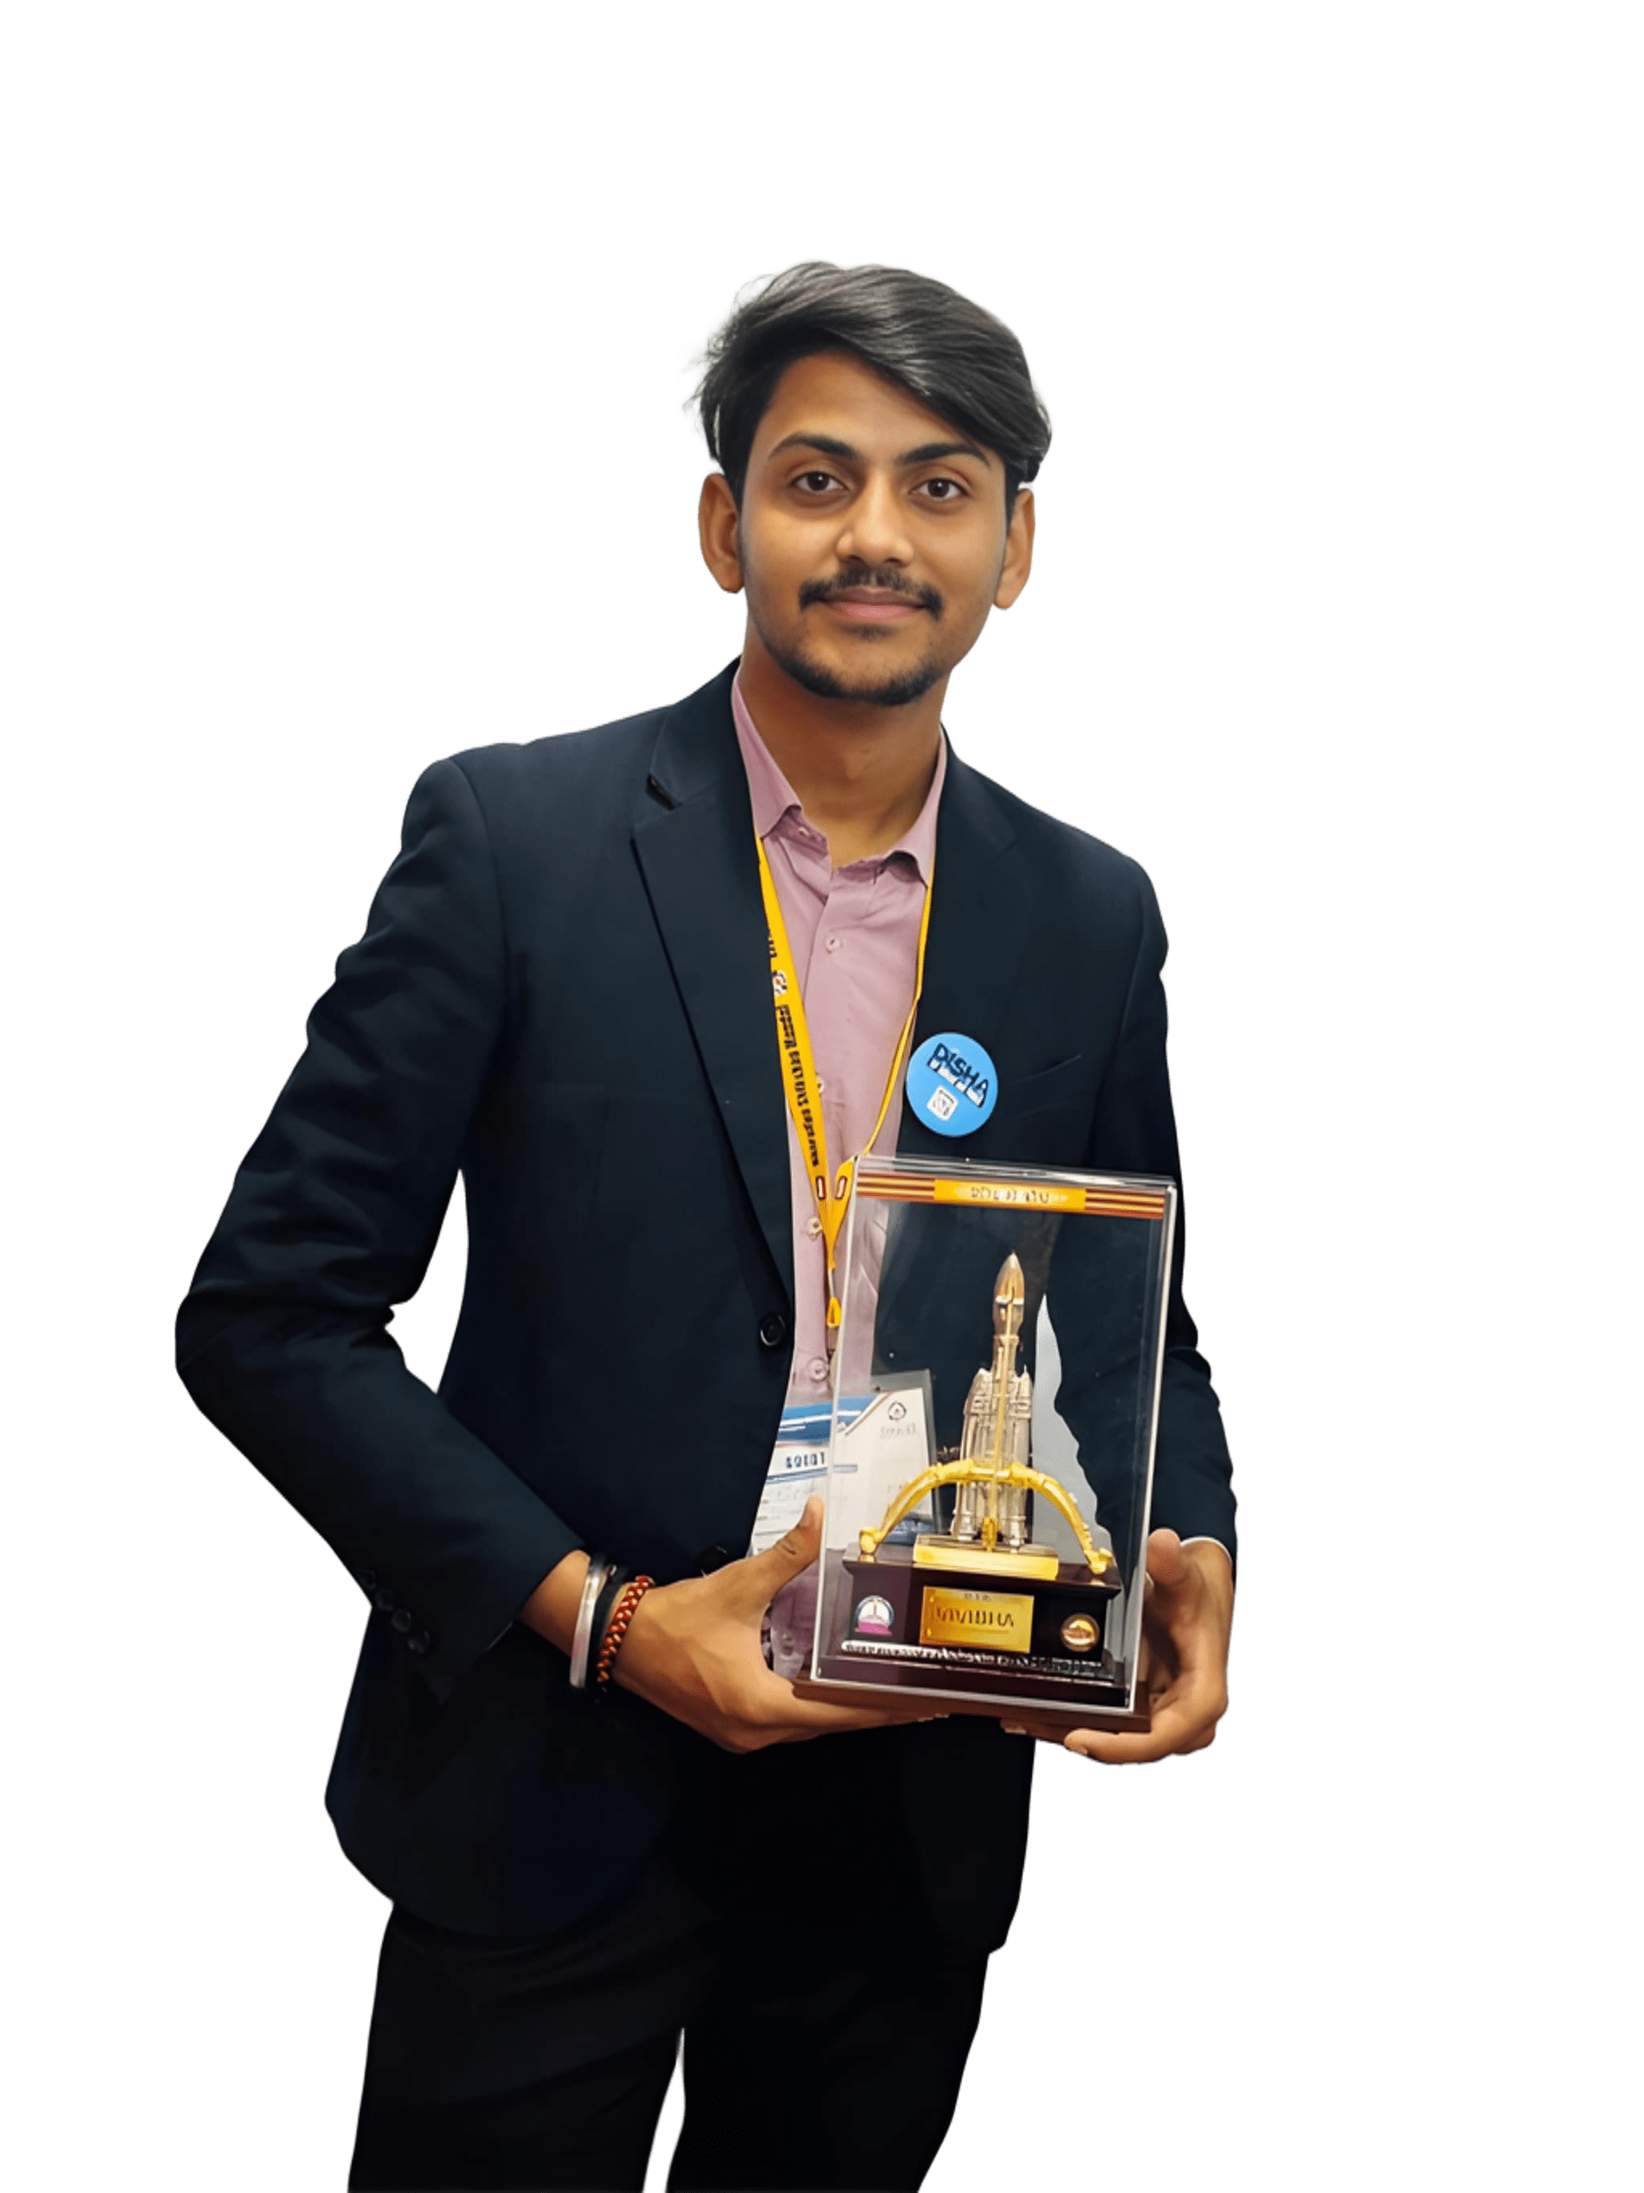
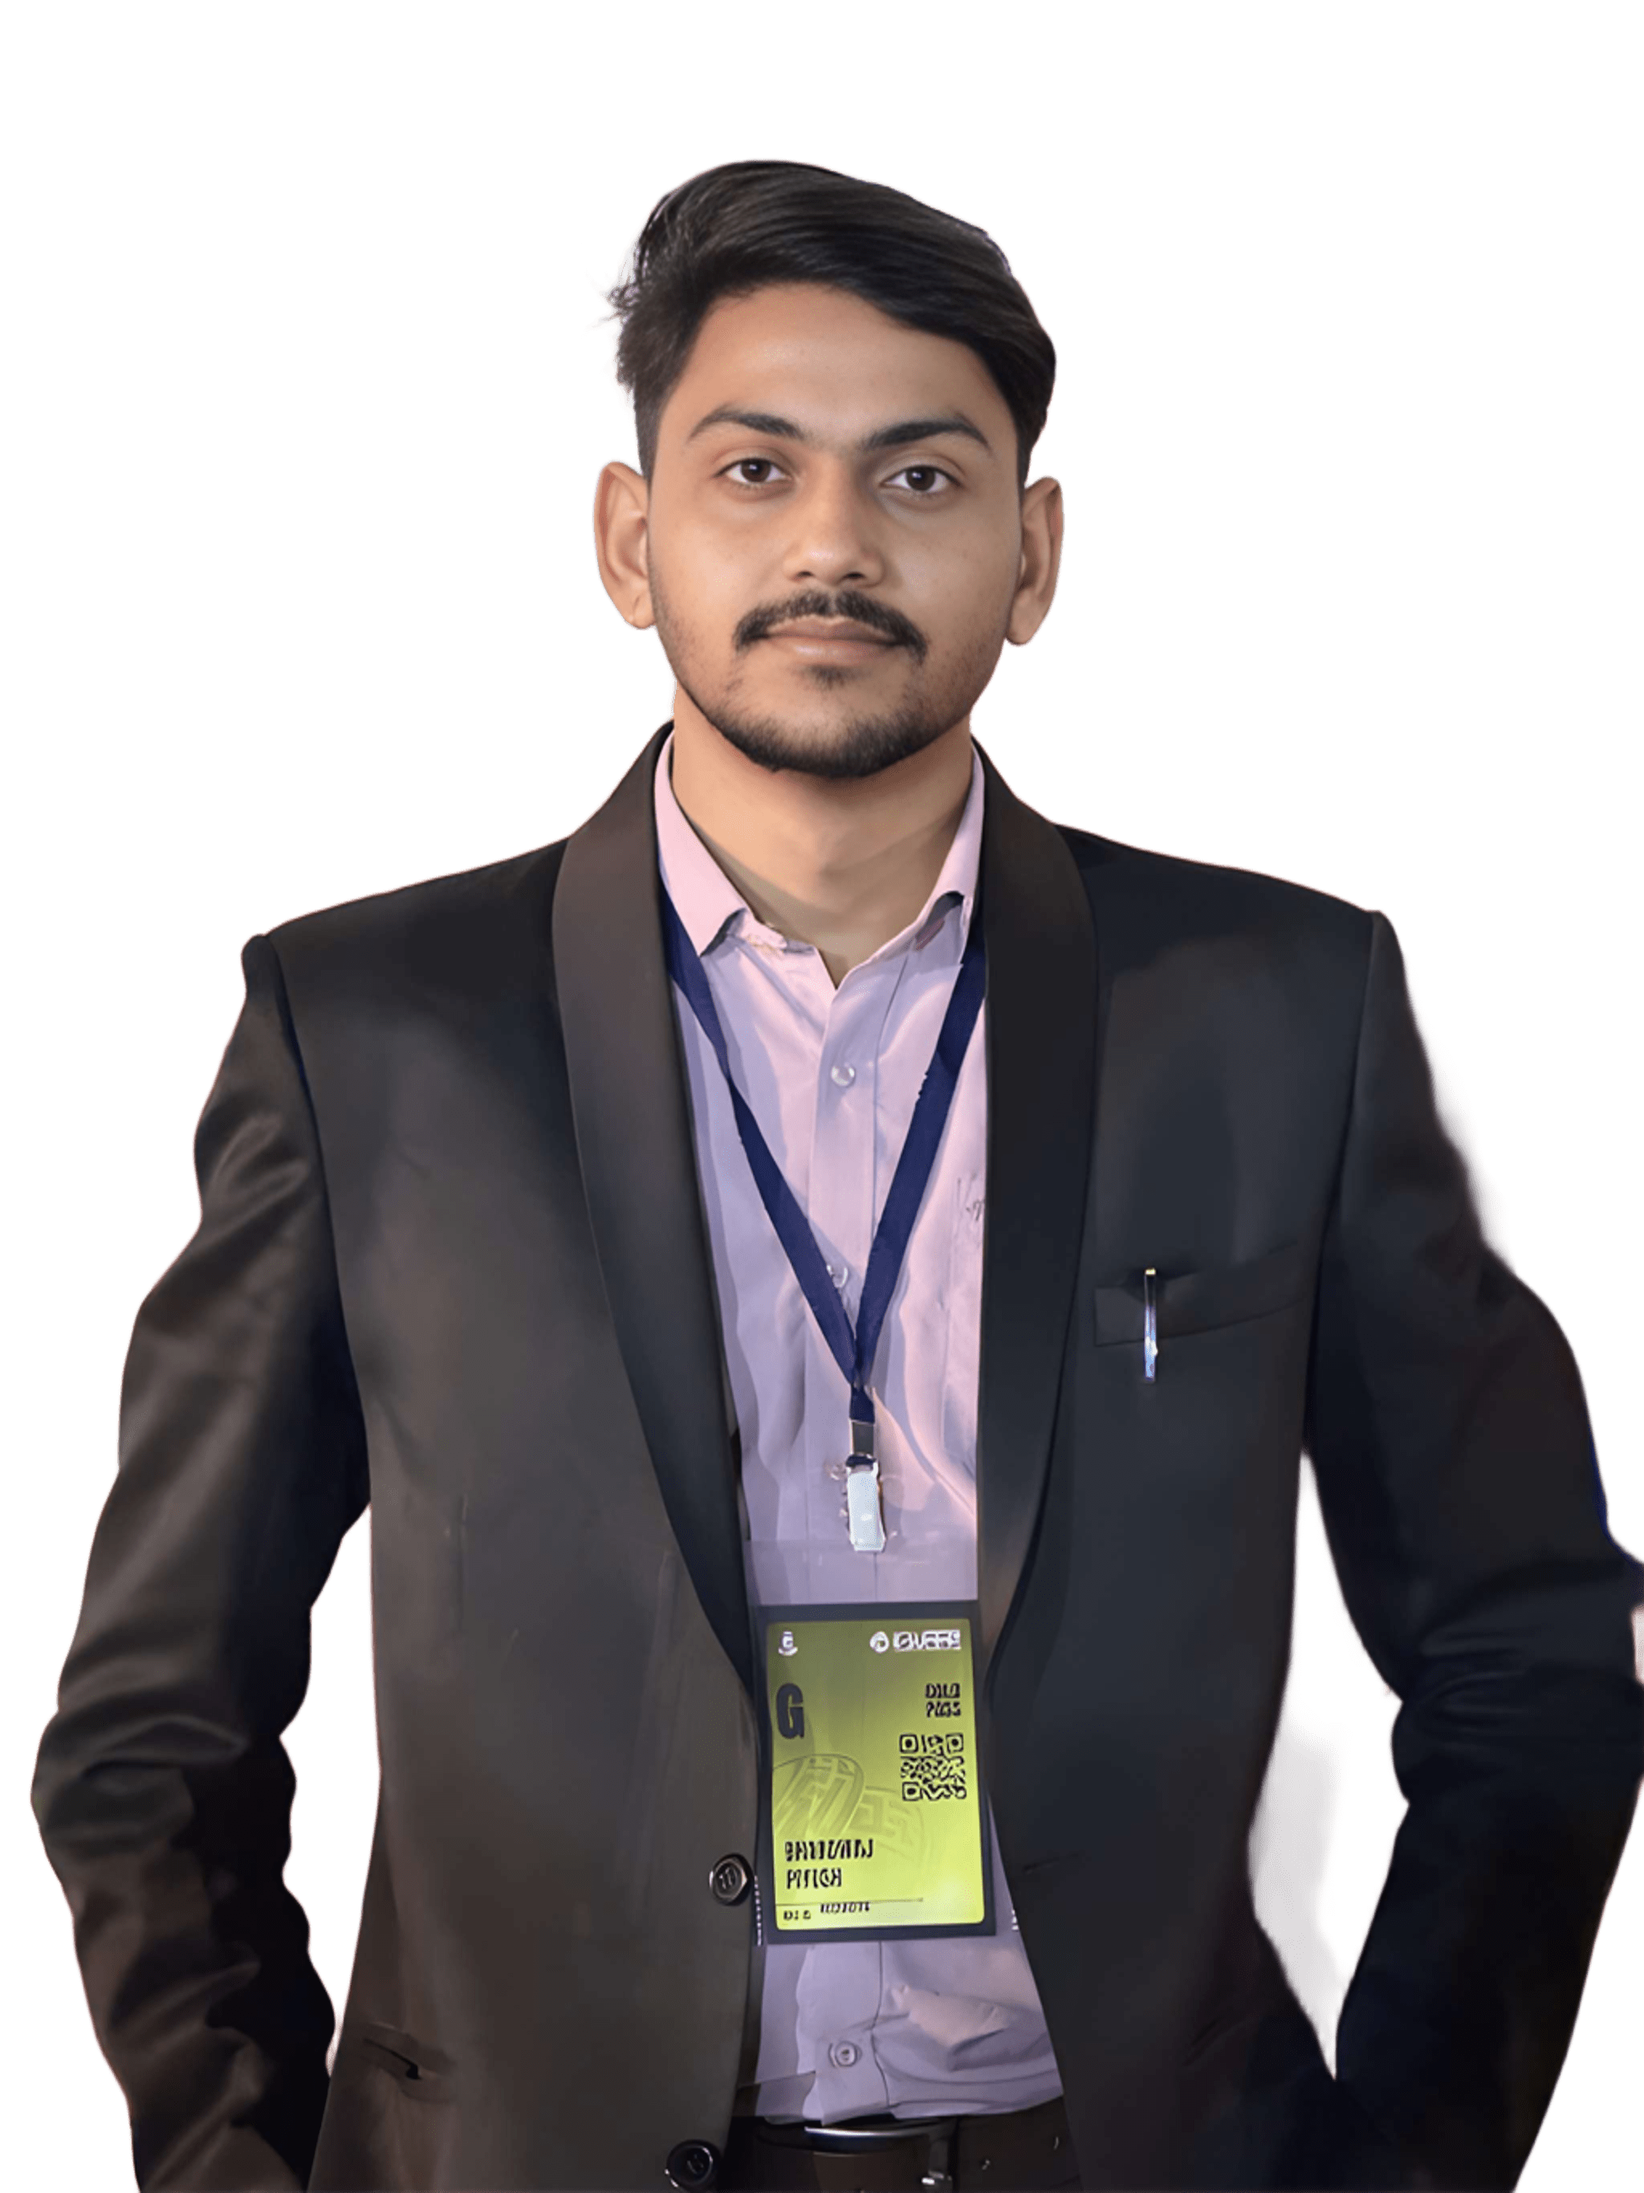
feat: integrate high-resolution team images and specialized cohort portraits

diff --git a/src/pages/Antigravity/Antigravity.jsx b/src/pages/Antigravity/Antigravity.jsx
@@ -4,8 +4,13 @@ import dhruvImg from '../../assets/team/dhruv.png';
 import aradhanaImg from '../../assets/team/aradhana.png';
 import kamalImg from '../../assets/team/kamal.png';
 import tanishqaImg from '../../assets/team/tanishqa.png';
+import tanishqaCohortImg from '../../assets/team/tanishqa_cohort.png';
 import piyushImg from '../../assets/team/piyush.png';
 import simranImg from '../../assets/team/simran.png';
+import rachitImg from '../../assets/team/rachit.png';
+import sonuImg from '../../assets/team/sonu.png';
+import prasoonImg from '../../assets/team/prasoon.png';
+import souravImg from '../../assets/team/sourav.png';
 
 const OUTCOMES = [
   { num: '01', title: 'A business with traction', desc: 'Target: ₹25L+ revenue (metrics may vary for marketplaces / tech products).', img: 'https://images.unsplash.com/photo-1460925895917-afdab827c52f?auto=format&fit=crop&q=80&w=500' },
@@ -187,35 +192,32 @@ export default function Antigravity() {
             </div>
           </div>
 
-          {/* Founders Section */}
           <div className="ag-team-group">
             <h2 className="ag-section-title" style={{ marginBottom: '60px' }}>Founders</h2>
             <div className="ag-mentors-grid">
               {[
-                { initials: 'RM', name: 'Mr. Rachit', last: 'Mathur', title: 'Founder', org: 'Shift', scale: 1.6, x: '0%', y: '-10%' },
+                { initials: 'RM', name: 'Mr. Rachit', last: 'Mathur', title: 'Founder', org: 'Shift', img: rachitImg, scale: 1.6, x: '0%', y: '-10%' },
               ].map((p, i) => <TeamCard key={i} p={p} i={i} />)}
             </div>
           </div>
 
-          {/* Mentors Section */}
           <div className="ag-team-group">
             <h2 className="ag-section-title" style={{ marginBottom: '60px' }}>Mentors</h2>
             <div className="ag-mentors-grid">
               {[
                 { initials: 'KM', name: 'Mr. Kamal', last: 'Kishore Malhotra', title: 'CEO', org: 'GIC RISE', img: kamalImg, scale: 1.6, x: '0%', y: '-10%' },
-                { initials: 'SK', name: 'Mr. Sonu', last: 'Kadam', title: 'Incubation Manager', org: 'GEC', scale: 1.6, x: '0%', y: '-10%' },
-                { initials: 'P', name: 'Mr.', last: 'Prasoon', title: 'General Manager', org: 'GEC', scale: 1.6, x: '0%', y: '-10%' },
-                { initials: 'SA', name: 'Mr. Sourav', last: 'Arya', title: 'Media Head', org: 'GIC RISE', scale: 1.6, x: '0%', y: '-10%' },
+                { initials: 'SK', name: 'Mr. Sonu', last: 'Kadam', title: 'Incubation Manager', org: 'GEC', img: sonuImg, scale: 1.6, x: '0%', y: '-10%' },
+                { initials: 'P', name: 'Mr.', last: 'Prasoon', title: 'General Manager', org: 'GEC', img: prasoonImg, scale: 1.6, x: '0%', y: '-10%' },
+                { initials: 'SA', name: 'Mr. Sourav', last: 'Arya', title: 'Media Head', org: 'GIC RISE', img: souravImg, scale: 1.6, x: '0%', y: '-10%' },
               ].map((p, i) => <TeamCard key={i} p={p} i={i} />)}
             </div>
           </div>
 
-          {/* GEC Team Section */}
           <div className="ag-team-group">
             <h2 className="ag-section-title" style={{ marginBottom: '60px' }}>GEC Team</h2>
             <div className="ag-mentors-grid">
               {[
-                { initials: 'TG', name: 'Tanishqa', last: 'Giri', title: 'President', org: 'GEC', img: tanishqaImg, scale: 3.0, x: '0%', y: '-10%' },
+                { initials: 'TG', name: 'Tanishqa', last: 'Giri', title: 'President', org: 'GEC', img: tanishqaCohortImg, scale: 3.0, x: '0%', y: '-10%' },
                 { initials: 'PB', name: 'Piyush', last: 'Bhardwaj', title: 'Vice President', org: 'GEC', img: piyushImg, scale: 1.6, x: '0%', y: '-10%' },
                 { initials: 'SJ', name: 'Simran', last: 'Jaiswal', title: 'Secretary', org: 'GEC', img: simranImg, scale: 1.4, x: '0%', y: '-10%' },
               ].map((p, i) => <TeamCard key={i} p={p} i={i} />)}
